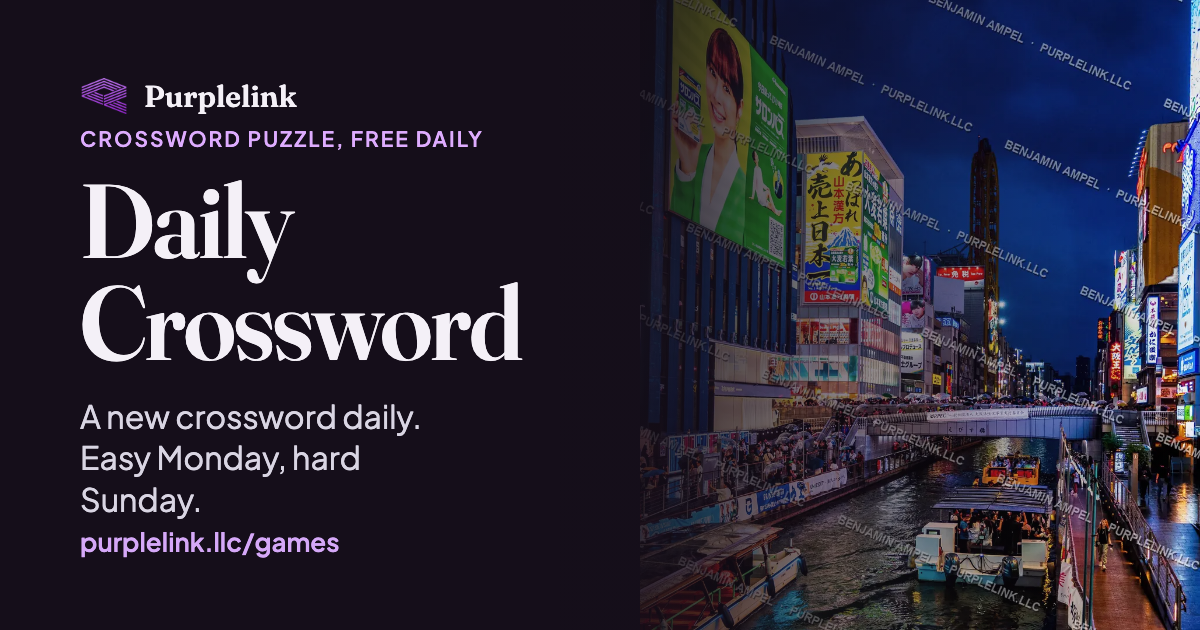
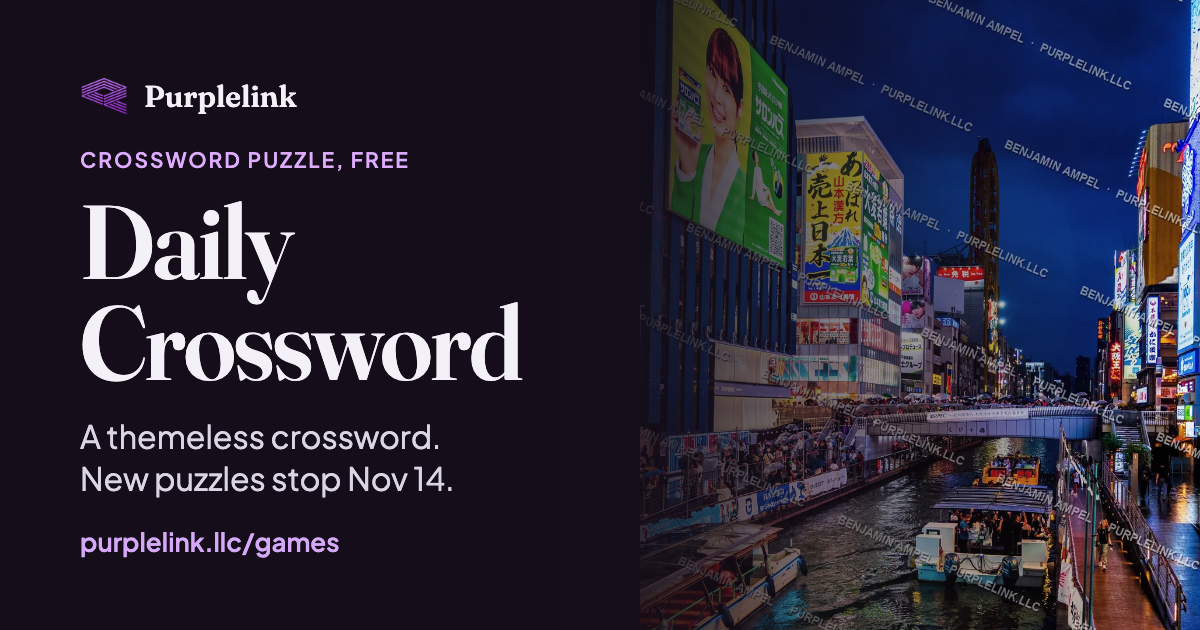
Games: say plainly that new crosswords stop after Nov 14, drop it from the daily run after that day

Changed region(s): [[0.0617, 0.2111, 0.4317, 0.6032], [0.0617, 0.6333, 0.37, 0.8143]]

diff --git a/site/games/index.html b/site/games/index.html
@@ -5,10 +5,10 @@
     <meta name="viewport" content="width=device-width, initial-scale=1">
     <meta name="robots" content="index, follow, max-image-preview:large">
     <title>Free daily games: Linkle, Quadlink, crossword and more</title>
-    <meta name="description" content="Free daily puzzles from Purplelink: a word game, a four-board word game, a crossword, a mountain guessing game and a sports teammate puzzle, plus unlimited chess puzzles. New every midnight.">
+    <meta name="description" content="Free daily puzzles from Purplelink: a word game, a four-board word game, a mountain guessing game and a sports teammate puzzle, new every midnight, plus a crossword and unlimited chess puzzles.">
     <link rel="canonical" href="https://purplelink.llc/games/">
     <meta property="og:title" content="Free daily games: Linkle, Quadlink, crossword and more">
-    <meta property="og:description" content="Free daily puzzles from Purplelink: a word game, a four-board word game, a crossword, a mountain guessing game and a sports teammate puzzle, plus unlimited chess puzzles. New every midnight.">
+    <meta property="og:description" content="Free daily puzzles from Purplelink: a word game, a four-board word game, a mountain guessing game and a sports teammate puzzle, new every midnight, plus a crossword and unlimited chess puzzles.">
     <meta property="og:type" content="website">
     <meta property="og:url" content="https://purplelink.llc/games/">
     <meta property="og:site_name" content="Purplelink">
@@ -19,7 +19,7 @@
     <meta property="og:image:alt" content="Purplelink&#x27;s free daily games">
     <meta name="twitter:card" content="summary_large_image">
     <meta name="twitter:title" content="Free daily games: Linkle, Quadlink, crossword and more">
-    <meta name="twitter:description" content="Free daily puzzles from Purplelink: a word game, a four-board word game, a crossword, a mountain guessing game and a sports teammate puzzle, plus unlimited chess puzzles. New every midnight.">
+    <meta name="twitter:description" content="Free daily puzzles from Purplelink: a word game, a four-board word game, a mountain guessing game and a sports teammate puzzle, new every midnight, plus a crossword and unlimited chess puzzles.">
     <meta name="twitter:image" content="https://purplelink.llc/assets/og/games-hub.png">
     <meta name="twitter:image:alt" content="Purplelink&#x27;s free daily games">
     <script type="application/ld+json">
@@ -30,7 +30,7 @@
           "@type": "CollectionPage",
           "name": "Daily games",
           "url": "https://purplelink.llc/games/",
-          "description": "Purplelink's daily games are a set of free puzzles that change every day at midnight: Linkle, Quadlink, a themeless crossword, Peaklink (guess the mountain) and Lockerlink (link two athletes from the NBA, NFL, MLB or NHL through their teammates). You can play without an account. The daily games have no third-party ads. Chess Puzzles adds unlimited rated puzzles and leaderboards, and shows Google ads.",
+          "description": "Purplelink's daily games are a set of free puzzles that change every day at midnight: Linkle, Quadlink, Peaklink (guess the mountain) and Lockerlink (link two athletes from the NBA, NFL, MLB or NHL through their teammates). There is also a themeless crossword; new crosswords stop after November 14, 2026, and the last one stays to play again. You can play without an account. The daily games have no third-party ads. Chess Puzzles adds unlimited rated puzzles and leaderboards, and shows Google ads.",
           "speakable": {
             "@type": "SpeakableSpecification",
             "cssSelector": [
@@ -194,7 +194,7 @@
             <button type="button" class="dock-btn" data-fx-sound aria-pressed="true" aria-label="Sound on. Turn sound off"><svg class="gl" aria-hidden="true" focusable="false"><use href="/games/glyphs.svg#sound-on"/></svg><span class="fx-label visually-hidden">Sound on</span></button>
           </div>
         </header>
-        <p class="game-lede">Purplelink&#x27;s daily games are a set of free puzzles that change every day at midnight: Linkle, Quadlink, a themeless crossword, Peaklink (guess the mountain) and Lockerlink (link two athletes from the NBA, NFL, MLB or NHL through their teammates). You can play without an account. The daily games have no third-party ads. Chess Puzzles adds unlimited rated puzzles and leaderboards, and shows Google ads.</p>
+        <p class="game-lede">Purplelink&#x27;s daily games are a set of free puzzles that change every day at midnight: Linkle, Quadlink, Peaklink (guess the mountain) and Lockerlink (link two athletes from the NBA, NFL, MLB or NHL through their teammates). There is also a themeless crossword; new crosswords stop after November 14, 2026, and the last one stays to play again. You can play without an account. The daily games have no third-party ads. Chess Puzzles adds unlimited rated puzzles and leaderboards, and shows Google ads.</p>
         <section class="run" aria-labelledby="run-h">
           <div class="run-ring" id="run-ring">
             <svg viewBox="0 0 168 168" aria-hidden="true" focusable="false" id="run-svg"></svg>
@@ -230,7 +230,7 @@
           </a>
           <a class="tile" data-game="crossword" data-g="crossword" href="/games/crossword/">
             <span class="tile-art"><svg class="art" viewBox="0 0 200 140" preserveAspectRatio="xMidYMid slice" aria-hidden="true" focusable="false"><rect class="a2" x="16.0" y="22.0" width="24" height="19.5" rx="3"/><rect class="a2" x="41.5" y="22.0" width="24" height="19.5" rx="3"/><rect class="a2" x="67.0" y="22.0" width="24" height="19.5" rx="3"/><rect class="a1" x="92.5" y="22.0" width="24" height="19.5" rx="3"/><rect class="a2" x="118.0" y="22.0" width="24" height="19.5" rx="3"/><rect class="a2" x="143.5" y="22.0" width="24" height="19.5" rx="3"/><rect class="a2" x="169.0" y="22.0" width="24" height="19.5" rx="3"/><rect class="a2" x="16.0" y="42.5" width="24" height="19.5" rx="3"/><rect class="a1" x="41.5" y="42.5" width="24" height="19.5" rx="3"/><rect class="a1" x="67.0" y="42.5" width="24" height="19.5" rx="3"/><rect class="a2" x="92.5" y="42.5" width="24" height="19.5" rx="3"/><rect class="a1" x="118.0" y="42.5" width="24" height="19.5" rx="3"/><rect class="a2" x="143.5" y="42.5" width="24" height="19.5" rx="3"/><rect class="a2" x="169.0" y="42.5" width="24" height="19.5" rx="3"/><rect class="a1" x="16.0" y="63.0" width="24" height="19.5" rx="3"/><rect class="a2" x="41.5" y="63.0" width="24" height="19.5" rx="3"/><rect class="a2" x="67.0" y="63.0" width="24" height="19.5" rx="3"/><rect class="a2" x="92.5" y="63.0" width="24" height="19.5" rx="3"/><rect class="a2" x="118.0" y="63.0" width="24" height="19.5" rx="3"/><rect class="a1" x="143.5" y="63.0" width="24" height="19.5" rx="3"/><rect class="a1" x="169.0" y="63.0" width="24" height="19.5" rx="3"/><rect class="a2" x="16.0" y="83.5" width="24" height="19.5" rx="3"/><rect class="a2" x="41.5" y="83.5" width="24" height="19.5" rx="3"/><rect class="a1" x="67.0" y="83.5" width="24" height="19.5" rx="3"/><rect class="a2" x="92.5" y="83.5" width="24" height="19.5" rx="3"/><rect class="a2" x="118.0" y="83.5" width="24" height="19.5" rx="3"/><rect class="a2" x="143.5" y="83.5" width="24" height="19.5" rx="3"/><rect class="a2" x="169.0" y="83.5" width="24" height="19.5" rx="3"/><rect class="a2" x="16.0" y="104.0" width="24" height="19.5" rx="3"/><rect class="a2" x="41.5" y="104.0" width="24" height="19.5" rx="3"/><rect class="a2" x="67.0" y="104.0" width="24" height="19.5" rx="3"/><rect class="a2" x="92.5" y="104.0" width="24" height="19.5" rx="3"/><rect class="a1" x="118.0" y="104.0" width="24" height="19.5" rx="3"/><rect class="a2" x="143.5" y="104.0" width="24" height="19.5" rx="3"/><rect class="a1" x="169.0" y="104.0" width="24" height="19.5" rx="3"/><text class="a4" x="18.0" y="31.0" font-size="7">1</text><text class="a4" x="94.5" y="51.5" font-size="7">3</text><text class="a4" x="43.5" y="72.0" font-size="7">4</text><text class="a4" x="94.5" y="92.5" font-size="7">5</text><text class="a4" x="18.0" y="113.0" font-size="7">6</text><g class="mv"><rect class="a5" x="41.5" y="22" width="22" height="19" rx="3" opacity=".9"/><text class="a4" x="52.5" y="37" font-size="14" text-anchor="middle">A</text></g></svg><span class="tile-badge"><svg class="gl gl-sm" aria-hidden="true" focusable="false"><use href="/games/glyphs.svg#bolt"/></svg>Spotlight</span><span class="tile-check" aria-hidden="true"><svg class="gl" aria-hidden="true" focusable="false"><use href="/games/glyphs.svg#check"/></svg></span></span>
-            <span class="tile-body"><h2>Daily Crossword</h2><p>A themeless crossword, easy Monday to hard Sunday.</p>
+            <span class="tile-body"><h2>Daily Crossword</h2><p>A themeless crossword. New puzzles stop after November 14.</p>
               <span class="tile-foot"><span class="tile-status" data-status>About 10 minutes</span><span class="tile-go" data-go>Play</span></span></span>
           </a>
           <a class="tile" data-game="peaklink" data-g="peaklink" href="/games/peaklink/">
@@ -288,14 +288,14 @@
             <tbody>
               <tr><th scope="row"><a href="/games/linkle/">Linkle</a></th><td>Linkle is a free daily word game.</td><td>About 3 min</td></tr>
               <tr><th scope="row"><a href="/games/quadlink/">Quadlink</a></th><td>Quadlink is a free daily word game where you solve four hidden five-letter words at once in nine guesses.</td><td>About 5 min</td></tr>
-              <tr><th scope="row"><a href="/games/crossword/">Daily Crossword</a></th><td>Daily Crossword is a free daily themeless crossword puzzle.</td><td>About 10 min</td></tr>
+              <tr><th scope="row"><a href="/games/crossword/">Daily Crossword</a></th><td>Daily Crossword is a free themeless crossword puzzle. New puzzles stop after November 14, 2026.</td><td>About 10 min</td></tr>
               <tr><th scope="row"><a href="/games/chess-puzzles/">Chess Puzzles</a></th><td>Chess Puzzles is a free, unlimited chess tactics trainer.</td><td>About 2 min</td></tr>
               <tr><th scope="row"><a href="/games/leaderboard/">Leaderboards</a></th><td>The Purplelink leaderboards rank every daily game by wins, best streak and average percentile, and list the highest ratings in Chess Puzzles and Lockerlink.</td><td>About 1 min</td></tr>
               <tr><th scope="row"><a href="/games/peaklink/">Peaklink</a></th><td>Peaklink is a free daily geography game about mountains.</td><td>About 3 min</td></tr>
               <tr><th scope="row"><a href="/games/lockerlink/">Lockerlink</a></th><td>Lockerlink is a free daily sports puzzle.</td><td>About 4 min</td></tr>
             </tbody>
           </table>
-          <p>Every puzzle changes at midnight in your own time zone, so everyone sees the same puzzle on the same calendar date. Difficulty rises through the week in Linkle and the crossword.</p>
+          <p>Every puzzle changes at midnight in your own time zone, so everyone sees the same puzzle on the same calendar date. Difficulty rises through the week in Linkle.</p>
           <h2>Questions</h2>
           <h3>Are the games free?</h3>
           <p>Yes. You can play every game without signing in. The daily games have no third-party ads, only an occasional small notice about one of our own apps. The unlimited Chess Puzzles page shows Google ads. An optional email-link sign-in keeps your streaks, achievements and puzzle ratings across devices.</p>

diff --git a/site/games/crossword/index.html b/site/games/crossword/index.html
@@ -5,10 +5,10 @@
     <meta name="viewport" content="width=device-width, initial-scale=1">
     <meta name="robots" content="index, follow, max-image-preview:large">
     <title>Daily Crossword: a free themeless puzzle, easy Monday to hard Sunday</title>
-    <meta name="description" content="A new free crossword every day, easiest on Monday and hardest on Sunday, with letter, word and puzzle checking. No account needed and no third-party ads.">
+    <meta name="description" content="A free themeless crossword, easiest on Monday and hardest on Sunday, with letter, word and puzzle checking. New crosswords stop after November 14, 2026, and the last one stays here to play again. No account needed.">
     <link rel="canonical" href="https://purplelink.llc/games/crossword/">
     <meta property="og:title" content="Daily Crossword: a free themeless puzzle, easy Monday to hard Sunday">
-    <meta property="og:description" content="A new free crossword every day, easiest on Monday and hardest on Sunday, with letter, word and puzzle checking. No account needed and no third-party ads.">
+    <meta property="og:description" content="A free themeless crossword, easiest on Monday and hardest on Sunday, with letter, word and puzzle checking. New crosswords stop after November 14, 2026, and the last one stays here to play again. No account needed.">
     <meta property="og:type" content="website">
     <meta property="og:url" content="https://purplelink.llc/games/crossword/">
     <meta property="og:site_name" content="Purplelink">
@@ -19,7 +19,7 @@
     <meta property="og:image:alt" content="Daily Crossword, a free daily puzzle from Purplelink">
     <meta name="twitter:card" content="summary_large_image">
     <meta name="twitter:title" content="Daily Crossword: a free themeless puzzle, easy Monday to hard Sunday">
-    <meta name="twitter:description" content="A new free crossword every day, easiest on Monday and hardest on Sunday, with letter, word and puzzle checking. No account needed and no third-party ads.">
+    <meta name="twitter:description" content="A free themeless crossword, easiest on Monday and hardest on Sunday, with letter, word and puzzle checking. New crosswords stop after November 14, 2026, and the last one stays here to play again. No account needed.">
     <meta name="twitter:image" content="https://purplelink.llc/assets/og/games-crossword.png">
     <meta name="twitter:image:alt" content="Daily Crossword, a free daily puzzle from Purplelink">
     <script type="application/ld+json">
@@ -41,7 +41,7 @@
           "@id": "https://purplelink.llc/games/crossword/#webpage",
           "url": "https://purplelink.llc/games/crossword/",
           "name": "Daily Crossword: a free themeless puzzle, easy Monday to hard Sunday",
-          "description": "A new free crossword every day, easiest on Monday and hardest on Sunday, with letter, word and puzzle checking. No account needed and no third-party ads.",
+          "description": "A free themeless crossword, easiest on Monday and hardest on Sunday, with letter, word and puzzle checking. New crosswords stop after November 14, 2026, and the last one stays here to play again. No account needed.",
           "inLanguage": "en",
           "isPartOf": {
             "@type": "WebSite",
@@ -79,7 +79,7 @@
           "@id": "https://purplelink.llc/games/crossword/#app",
           "name": "Daily Crossword",
           "url": "https://purplelink.llc/games/crossword/",
-          "description": "Daily Crossword is a free daily themeless crossword puzzle. The grid grows and the clues get trickier from Monday to Sunday. You can check one letter, one word or the whole puzzle, or turn on auto-check.",
+          "description": "Daily Crossword is a free themeless crossword puzzle. New crosswords stop after November 14, 2026; after that the last puzzle stays here to play again. You can check one letter, one word or the whole puzzle, or turn on auto-check.",
           "applicationCategory": "GameApplication",
           "applicationSubCategory": "Crossword puzzle",
           "genre": "Crossword puzzle",
@@ -153,10 +153,10 @@
             },
             {
               "@type": "Question",
-              "name": "Is there a new crossword every day?",
+              "name": "Are there still new crosswords?",
               "acceptedAnswer": {
                 "@type": "Answer",
-                "text": "Yes. A new themeless puzzle is ready at midnight your time. Monday is the easiest and Sunday the hardest, with bigger grids and trickier clues as the week goes on."
+                "text": "Not for now. New crosswords are paused, and the last new one is for Saturday, November 14, 2026. After that the page shows that puzzle to play again; replays do not count toward stats, streaks or the leaderboard."
               }
             },
             {
@@ -272,8 +272,8 @@
           <h1>Daily Crossword</h1>
           <span class="game-num" id="cw-number"></span>
         </div>
-        <p class="game-lede">Daily Crossword is a free daily themeless crossword puzzle. The grid grows and the clues get trickier from Monday to Sunday. You can check one letter, one word or the whole puzzle, or turn on auto-check.</p>
-        <p id="cw-loading" class="games-note">Loading today's crossword.</p>
+        <p class="game-lede">Daily Crossword is a free themeless crossword puzzle. New crosswords stop after November 14, 2026; after that the last puzzle stays here to play again. You can check one letter, one word or the whole puzzle, or turn on auto-check.</p>
+        <p id="cw-loading" class="games-note">Loading the crossword.</p>
         <p id="cw-missing" class="games-note" hidden>Today's crossword is not ready yet. Please check back soon.</p>
         <p id="cw-paused" class="games-note" hidden>New crosswords are paused. Here is the most recent one to play again; it does not count toward your stats.</p>
         <div id="cw-game" hidden>
@@ -343,8 +343,8 @@
         <h2>Questions</h2>
         <h3>What does Pencil do?</h3>
         <p>Pencil mode marks the letters you type as tentative: they show lighter until you tap Ink all. They count exactly like any other letter when you check or finish.</p>
-        <h3>Is there a new crossword every day?</h3>
-        <p>Yes. A new themeless puzzle is ready at midnight your time. Monday is the easiest and Sunday the hardest, with bigger grids and trickier clues as the week goes on.</p>
+        <h3>Are there still new crosswords?</h3>
+        <p>Not for now. New crosswords are paused, and the last new one is for Saturday, November 14, 2026. After that the page shows that puzzle to play again; replays do not count toward stats, streaks or the leaderboard.</p>
         <h3>How is the crossword made?</h3>
         <p>The grids are built by a program that fills a symmetric pattern from a word list, and the clues are written for each puzzle. The size of the grid, how rare the words are and how the clues are phrased all grow from Monday to Sunday.</p>
         <h3>What do Check and Reveal do?</h3>

diff --git a/site/games/achievements.js b/site/games/achievements.js
@@ -12,6 +12,9 @@
   // history still counts. RUN is today's daily lineup.
   var PLAYED = ["linkle", "quadlink", "crossword", "peaklink", "lockerlink", "daily-five", "daily-photo", "daily-chess", "sudoku"];
   var RUN = ["linkle", "quadlink", "crossword", "peaklink", "lockerlink"];
+  // New crosswords stopped with the 2026-11-14 puzzle; after that day the daily set is the other four games.
+  var CW_LAST = G.dayIndex(new Date("2026-11-14T12:00:00"), EPOCH);
+  function runFor(idx) { return idx > CW_LAST ? RUN.filter(function (g) { return g !== "crossword"; }) : RUN; }
   function best(all) { return PLAYED.reduce(function (n, g) { return Math.max(n, stats(all, g).max || 0); }, 0); }
   function played(all) { return PLAYED.reduce(function (n, g) { return n + (stats(all, g).played || 0); }, 0); }
   function dowOf(idx) { return (EPOCH_DOW + idx) % 7; }
@@ -38,10 +41,12 @@
     { id: "sudoku-first", retired: true, name: "Digits in place", desc: "Solve your first daily Sudoku.", test: function (a) { return stats(a, "sudoku").won >= 1; } },
     { id: "sudoku-hard", retired: true, name: "No pencil needed", desc: "Solve a Hard or Expert Sudoku with no help.", test: function (a, c) { return c.game === "sudoku" && c.clean && (c.level === "Hard" || c.level === "Expert"); } },
     { id: "sudoku-clean-5", retired: true, name: "Sharp eyes", desc: "Solve five Sudokus with no help.", test: function (a) { return ((a.sudoku && a.sudoku.clean) || 0) >= 5; } },
-    { id: "cw-first", name: "First crossword", desc: "Solve your first daily crossword.", test: function (a) { return stats(a, "crossword").won >= 1; } },
-    { id: "cw-monday", name: "Quick Monday", desc: "Solve a Monday crossword with no help in under four minutes.", test: function (a, c) { return c.game === "crossword" && c.clean && c.weekdayName === "Monday" && c.seconds < 240; } },
-    { id: "cw-sunday", name: "Sunday finisher", desc: "Solve a Sunday crossword with no help.", test: function (a, c) { return c.game === "crossword" && c.clean && c.weekdayName === "Sunday"; } },
-    { id: "cw-clean-5", name: "Unaided", desc: "Solve five crosswords with no help.", test: function (a) { return ((a.crossword && a.crossword.clean) || 0) >= 5; } },
+    // The crossword achievements are retired with the freeze: a replay of the last puzzle does not count, so they
+    // can only be earned through 2026-11-14 and show only to players who earned them.
+    { id: "cw-first", retired: true, name: "First crossword", desc: "Solve your first daily crossword.", test: function (a) { return stats(a, "crossword").won >= 1; } },
+    { id: "cw-monday", retired: true, name: "Quick Monday", desc: "Solve a Monday crossword with no help in under four minutes.", test: function (a, c) { return c.game === "crossword" && c.clean && c.weekdayName === "Monday" && c.seconds < 240; } },
+    { id: "cw-sunday", retired: true, name: "Sunday finisher", desc: "Solve a Sunday crossword with no help.", test: function (a, c) { return c.game === "crossword" && c.clean && c.weekdayName === "Sunday"; } },
+    { id: "cw-clean-5", retired: true, name: "Unaided", desc: "Solve five crosswords with no help.", test: function (a) { return ((a.crossword && a.crossword.clean) || 0) >= 5; } },
     { id: "rush-10", name: "Rush ten", desc: "Solve ten puzzles in one Rush run.", test: function (a, c) { return c.game === "chess-puzzles" && c.rush >= 10; } },
     { id: "rush-20", name: "Rush twenty", desc: "Solve twenty puzzles in one Rush run.", test: function (a, c) { return c.game === "chess-puzzles" && c.rush >= 20; } },
     { id: "rated-first", name: "Rated", desc: "Finish your first rated chess puzzle.", test: function (a, c) { return c.game === "chess-puzzles" && c.n >= 1; } },
@@ -57,10 +62,10 @@
     { id: "streak-3", name: "On a roll", desc: "Keep a three-day streak in any game.", test: function (a) { return best(a) >= 3; } },
     { id: "streak-7", name: "Week streak", desc: "Keep a seven-day streak in any game.", test: function (a) { return best(a) >= 7; } },
     { id: "streak-30", name: "Month streak", desc: "Keep a thirty-day streak in any game.", test: function (a) { return best(a) >= 30; } },
-    { id: "full-set", name: "Full set", desc: "Finish Linkle, Quadlink, Peaklink and the crossword on the same day.", test: function (a, c) {
-      return ["linkle", "quadlink", "peaklink", "crossword"].every(function (g) { var t = a[g] && a[g].today; return t && t.done && t.idx === c.idx; }); } },
+    { id: "full-set", name: "Full set", desc: "Finish Linkle, Quadlink and Peaklink on the same day.", test: function (a, c) {
+      return ["linkle", "quadlink", "peaklink"].every(function (g) { var t = a[g] && a[g].today; return t && t.done && t.idx === c.idx; }); } },
     { id: "daily-set", name: "Daily set", desc: "Finish every daily puzzle on the same day.", test: function (a, c) {
-      return RUN.every(function (g) { var t = a[g] && a[g].today; return t && t.done && t.idx === c.idx; }); } },
+      return runFor(c.idx).every(function (g) { var t = a[g] && a[g].today; return t && t.done && t.idx === c.idx; }); } },
     { id: "close-call", name: "Close call", desc: "Let the weekly streak saver rescue a streak.", test: function (a) {
       return PLAYED.some(function (g) { return (stats(a, g).freezes || []).length > 0; }); } },
     { id: "level-5", name: "Level 5", desc: "Reach level 5.", test: function (a) { return G.xpOf(a).level >= 5; } },

diff --git a/site/games/goals.js b/site/games/goals.js
@@ -7,25 +7,31 @@
   if (!G) return;
   var EPOCH = "2026-10-04", EPOCH_DOW = 0;
 
+  function todayIdx() { return G.dayIndex(new Date(), EPOCH); }
+
   // Display order. `min` is a rough playing time; `kind` groups games for quests.
-  var GAMES = [
+  var ALL = [
     { id: "linkle", name: "Linkle", path: "/games/linkle/", min: 3, kind: "word" },
     { id: "quadlink", name: "Quadlink", path: "/games/quadlink/", min: 5, kind: "word" },
     { id: "crossword", name: "Daily Crossword", path: "/games/crossword/", min: 10, kind: "word" },
     { id: "peaklink", name: "Peaklink", path: "/games/peaklink/", min: 3, kind: "guess" },
     { id: "lockerlink", name: "Lockerlink", path: "/games/lockerlink/", min: 4, kind: "sports" }
   ];
+  // New crosswords stopped with the 2026-11-14 puzzle (games freeze, 2026-11-12). Through that day the crossword is
+  // part of the daily run; from the next day the run is the other four games and the crossword page only replays.
+  var CW_LAST = G.dayIndex(new Date("2026-11-14T12:00:00"), EPOCH);
+  var CW_RUN = todayIdx() <= CW_LAST;
+  var GAMES = CW_RUN ? ALL : ALL.filter(function (g) { return g.id !== "crossword"; });
+  var NUM = ["zero", "one", "two", "three", "four", "five"];
   // Daily puzzles outside the run (none since the 2026-11-12 games freeze; kept so callers can still read it).
   var MORE = [];
-  var BY = {}; GAMES.concat(MORE).forEach(function (g) { BY[g.id] = g; });
-  var QUICK_FIRST = ["linkle", "peaklink", "lockerlink", "quadlink", "crossword"];
+  var BY = {}; ALL.concat(MORE).forEach(function (g) { BY[g.id] = g; });
+  var QUICK_FIRST = ["linkle", "peaklink", "lockerlink", "quadlink", "crossword"].filter(function (id) { return GAMES.some(function (g) { return g.id === id; }); });
   var TIERS = [
     { n: 2, name: "Warm-up", xp: 20 },
     { n: 3, name: "Steady", xp: 20 },     // 40 in total
-    { n: 5, name: "Full run", xp: 60 }    // 100 in total
+    { n: GAMES.length, name: "Full run", xp: 60 }    // 100 in total
   ];
-
-  function todayIdx() { return G.dayIndex(new Date(), EPOCH); }
 
   function isDone(all, id, idx) {
     var s = all[id] || {};
@@ -48,7 +54,7 @@
   // Quest pool. f(S) -> [have, need]. "count" quests are limited to one per day.
   var QUESTS = {
     three: { text: "Finish any three games", count: true, f: function (S) { return [S.count, 3]; } },
-    five: { text: "Finish all five games", count: true, f: function (S) { return [S.count, 5]; } },
+    five: { text: "Finish all " + NUM[GAMES.length] + " games", count: true, f: function (S) { return [S.count, GAMES.length]; } },
     mix: { text: "Finish one word game and one of Peaklink or Lockerlink", f: function (S) { return [(anyOf(S, kindIds("word")) ? 1 : 0) + (anyOf(S, ["peaklink", "lockerlink"]) ? 1 : 0), 2]; } },
     pair: { text: "Finish Linkle and Quadlink", f: function (S) { return [countOf(S, ["linkle", "quadlink"]), 2]; } },
     guess: { text: "Finish Peaklink and Lockerlink", f: function (S) { return [countOf(S, ["peaklink", "lockerlink"]), 2]; } },
@@ -56,7 +62,8 @@
     fresh: { text: "Finish a game you have played fewer than five times", f: function (S) {
       return [GAMES.some(function (g) { return S.done[g.id] && S.played[g.id] < 5; }) ? 1 : 0, 1]; } }
   };
-  var QUEST_IDS = Object.keys(QUESTS);
+  // The crossword quest leaves the pool once the crossword leaves the run.
+  var QUEST_IDS = Object.keys(QUESTS).filter(function (id) { return id !== "long" || CW_RUN; });
 
   function rng(seed) {   // mulberry32
     var a = (seed * 2654435761 + 12345) >>> 0;
@@ -83,7 +90,7 @@
     var g = all.goals && typeof all.goals === "object" ? all.goals : {};
     return { d: g.d || {}, w: g.w || {}, banked: g.banked || 0 };
   }
-  function tierFor(count) { return count >= 5 ? 3 : count >= 3 ? 2 : count >= 2 ? 1 : 0; }
+  function tierFor(count) { return count >= TIERS[2].n ? 3 : count >= 3 ? 2 : count >= 2 ? 1 : 0; }
 
   // Monday-to-Sunday stamps for the week containing `idx`: a day is stamped once two puzzles were finished.
   function weekStamps(g, idx) {
@@ -200,5 +207,5 @@
     document.dispatchEvent(new CustomEvent("pl-reward", { detail: info }));
   }
 
-  window.PLGoals = { GAMES: GAMES, MORE: MORE, BY: BY, TIERS: TIERS, QUESTS: QUESTS, todayIdx: todayIdx, refresh: refresh, summary: summary, afterResult: afterResult, nextFor: nextFor, spotFor: spotFor, isDone: isDone, questsFor: questsFor };
+  window.PLGoals = { GAMES: GAMES, CW_LAST: CW_LAST, MORE: MORE, BY: BY, TIERS: TIERS, QUESTS: QUESTS, todayIdx: todayIdx, refresh: refresh, summary: summary, afterResult: afterResult, nextFor: nextFor, spotFor: spotFor, isDone: isDone, questsFor: questsFor };
 })();

diff --git a/site/games/hub.js b/site/games/hub.js
@@ -116,7 +116,7 @@
 
   function paintReach() {
     var ul = $("reach"), A = window.PLAch; if (!ul || !A) return;
-    var have = A.unlocked() || {}, locked = A.defs.filter(function (d) { return have[d.id] === undefined; });
+    var have = A.unlocked() || {}, locked = A.defs.filter(function (d) { return have[d.id] === undefined && !d.retired; });
     var n = P.todayIdx(), picks = [];
     for (var k = 0; k < locked.length && picks.length < 3; k++) picks.push(locked[(n * 7 + k * 5) % locked.length]);
     var seen = {}; picks = picks.filter(function (d) { return !seen[d.id] && (seen[d.id] = 1); });
@@ -127,17 +127,21 @@
       ul.appendChild(li);
     });
     var line = $("hub-ach");
-    if (line) line.textContent = Object.keys(have).length + " of " + A.defs.length + " achievements unlocked. ";
+    if (line) line.textContent = Object.keys(have).length + " of " + A.defs.filter(function (d) { return !d.retired || have[d.id] !== undefined; }).length + " achievements unlocked. ";
   }
 
   function paint(first) {
     var all = G.all(), sum = P.summary();
     drawRing(sum);
+    // The run has five games through 2026-11-14 and four after it (the crossword stops); the markup says five.
+    var tot = document.querySelector(".run-count small"); if (tot) tot.textContent = "/" + sum.total;
+    var full = document.querySelector(".run-tier:last-of-type");
+    if (full) { full.setAttribute("data-n", String(sum.total)); var fs = full.querySelector("span"); if (fs) fs.textContent = "All " + sum.total + ", +60 XP"; }
     var n = $("run-n"); if (n) { if (first && FX) { n.textContent = "0"; FX.count(n, sum.count, 900); } else n.textContent = String(sum.count); }
     var line = $("run-line");
     if (line) {
       if (sum.count === sum.total) line.textContent = "A full run. New puzzles arrive at midnight.";
-      else if (sum.toNextTier) line.textContent = sum.count === 0 ? "Finish two puzzles for a Warm-up, three for Steady, all five for a Full run." : sum.toNextTier.need + " more for " + sum.toNextTier.name + " (+" + sum.toNextTier.xp + " XP).";
+      else if (sum.toNextTier) line.textContent = sum.count === 0 ? "Finish two puzzles for a Warm-up, three for Steady, all " + (sum.total === 4 ? "four" : "five") + " for a Full run." : sum.toNextTier.need + " more for " + sum.toNextTier.name + " (+" + sum.toNextTier.xp + " XP).";
     }
     Array.prototype.forEach.call(document.querySelectorAll(".run-tier"), function (li) { li.toggleAttribute("data-got", sum.count >= Number(li.getAttribute("data-n"))); });
     var btn = $("hub-next");

diff --git a/site/games/linkle/index.html b/site/games/linkle/index.html
@@ -369,7 +369,7 @@
           <h2>More daily games</h2>
           <ul class="games-related">
           <li><a href="/games/quadlink/"><strong>Quadlink</strong></a>: Quadlink is a free daily word game where you solve four hidden five-letter words at once in nine guesses.</li>
-          <li><a href="/games/crossword/"><strong>Daily Crossword</strong></a>: Daily Crossword is a free daily themeless crossword puzzle.</li>
+          <li><a href="/games/crossword/"><strong>Daily Crossword</strong></a>: Daily Crossword is a free themeless crossword puzzle.</li>
           </ul>
         </div>
         <p class="games-note"><a href="/games/">All daily games</a></p>

diff --git a/site/games/account.js b/site/games/account.js
@@ -84,7 +84,7 @@
         var bits = [];
         if (res.body.chess) bits.push("Chess Puzzles " + res.body.chess.r + " (" + res.body.chess.n + " played)");
         if (res.body.sudoku) bits.push("Sudoku Unlimited " + res.body.sudoku.r + " (" + res.body.sudoku.n + " played)");
-        $("ac-ratings").textContent = bits.length ? "Your ratings: " + bits.join(", ") + "." : "You have no puzzle ratings yet. Try Chess Puzzles or Sudoku Unlimited.";
+        $("ac-ratings").textContent = bits.length ? "Your ratings: " + bits.join(", ") + "." : "You have no puzzle ratings yet. Try Chess Puzzles.";
       }, function () {});
     }
   }

diff --git a/scripts/gen_games_pages.py b/scripts/gen_games_pages.py
@@ -155,7 +155,7 @@ BYSLUG = {m["slug"]: m for m in META.values()}
 TAGLINE = {
     "linkle": "Five letters, six tries, and a new twist every weekday.",
     "quadlink": "Four hidden words at once, with a new twist every weekday.",
-    "crossword": "A themeless crossword, easy Monday to hard Sunday.",
+    "crossword": "A themeless crossword. New puzzles stop after November 14.",
     "peaklink": "Guess the mountain from height, place and volcano clues.",
     "lockerlink": "Link two players from any era through real teammates.",
     "chess-puzzles": "Unlimited rated tactics, plus a three-minute Rush mode.",
@@ -371,7 +371,7 @@ page("games/quadlink/",
 # ---------------- Crossword ----------------
 CW_FAQ = [
     ('What does Pencil do?', 'Pencil mode marks the letters you type as tentative: they show lighter until you tap Ink all. They count exactly like any other letter when you check or finish.'),
-    ("Is there a new crossword every day?", "Yes. A new themeless puzzle is ready at midnight your time. Monday is the easiest and Sunday the hardest, with bigger grids and trickier clues as the week goes on."),
+    ("Are there still new crosswords?", "Not for now. New crosswords are paused, and the last new one is for Saturday, November 14, 2026. After that the page shows that puzzle to play again; replays do not count toward stats, streaks or the leaderboard."),
     ("How is the crossword made?", "The grids are built by a program that fills a symmetric pattern from a word list, and the clues are written for each puzzle. The size of the grid, how rare the words are and how the clues are phrased all grow from Monday to Sunday."),
     ("What do Check and Reveal do?", "You can check one letter, one word or the whole puzzle, and wrong letters turn red. Auto-check marks a wrong letter as soon as you type it. Reveal fills in a letter, a word or the whole puzzle. Using any of them is shown as solving with help, and only unaided solves count toward your best time."),
     ("Where are my times and streak stored?", "Saved in your browser on this device. If you sign in with an email link, your streaks and achievements also follow you to other devices; without signing in, clearing site data or switching devices starts fresh."),
@@ -391,9 +391,10 @@ CW_BODY = """      <div class="games-wrap">
           <h1>Daily Crossword</h1>
           <span class="game-num" id="cw-number"></span>
         </div>
-        <p class="game-lede">A new themeless crossword every day. Easiest on Monday, hardest on Sunday.</p>
-        <p id="cw-loading" class="games-note">Loading today's crossword.</p>
+        <p class="game-lede">A themeless crossword, easiest on Monday and hardest on Sunday. New crosswords stop after November 14, 2026.</p>
+        <p id="cw-loading" class="games-note">Loading the crossword.</p>
         <p id="cw-missing" class="games-note" hidden>Today's crossword is not ready yet. Please check back soon.</p>
+        <p id="cw-paused" class="games-note" hidden>New crosswords are paused. Here is the most recent one to play again; it does not count toward your stats.</p>
         <div id="cw-game" hidden>
           <div class="cw-layout">
             <div class="cw-main">
@@ -436,7 +437,7 @@ CW_BODY = """      <div class="games-wrap">
                   <span class="game-note" id="cw-share-note"></span>
                 </div>
                 <textarea class="wg-share-text" id="cw-share-text" hidden readonly aria-label="Result text"></textarea>
-                <p class="game-next">Next crossword in <span id="cw-next-in"></span>.</p>
+                <p class="game-next" id="cw-next">Next crossword in <span id="cw-next-in"></span>.</p>
               </section>
             </div>
             <div class="cw-clues">
@@ -452,10 +453,10 @@ CW_BODY = """      <div class="games-wrap">
       </div>"""
 page("games/crossword/",
      "Daily Crossword: a free themeless puzzle, easy Monday to hard Sunday | Purplelink",
-     "A new free crossword every day, easiest on Monday and hardest on Sunday. No third-party ads, and you do not need an account.",
+     "A free themeless crossword, easiest on Monday and hardest on Sunday. New crosswords stop after November 14, 2026, and the last one stays here to play again. No account needed.",
      CW_BODY,
      {"@context": "https://schema.org", "@graph": [
-         game_app("Daily Crossword", "https://purplelink.llc/games/crossword/", "A free daily themeless crossword that gets harder from Monday to Sunday."),
+         game_app("Daily Crossword", "https://purplelink.llc/games/crossword/", "A free themeless crossword. New puzzles stop after November 14, 2026, and the last one stays here to play again."),
          faq(CW_FAQ),
          crumbs(("Home", "https://purplelink.llc/"), ("Games", "https://purplelink.llc/games/"), ("Daily Crossword", "https://purplelink.llc/games/crossword/"))]},
      ["/games/core.js", "/games/sync.js", "/games/achievements.js", "/games/confetti.js", "/games/crossword.js"])

diff --git a/scripts/games_meta.py b/scripts/games_meta.py
@@ -43,8 +43,8 @@ GAMES = {
     "games/crossword/": dict(
         slug="crossword", name="Daily Crossword", genre="Crossword puzzle", minutes=10,
         title="Daily Crossword: a free themeless puzzle, easy Monday to hard Sunday",
-        desc="A new free crossword every day, easiest on Monday and hardest on Sunday, with letter, word and puzzle checking. No account needed and no third-party ads.",
-        answer="Daily Crossword is a free daily themeless crossword puzzle. The grid grows and the clues get trickier from Monday to Sunday, and you can check one letter, one word or the whole puzzle, or turn on auto-check.",
+        desc="A free themeless crossword, easiest on Monday and hardest on Sunday, with letter, word and puzzle checking. New crosswords stop after November 14, 2026, and the last one stays here to play again. No account needed.",
+        answer="Daily Crossword is a free themeless crossword puzzle. New crosswords stop after November 14, 2026; after that the last puzzle stays here to play again. You can check one letter, one word or the whole puzzle, or turn on auto-check.",
         features=["Grids from 9 by 9 on Monday to 15 by 15 on Sunday", "Check a letter, a word or the puzzle, plus auto-check", "Reveal a letter, a word or the puzzle", "Best time per weekday for unaided solves"],
         steps=[("Select a clue or a square", "Click a square and type. Click it again, or press Space, to switch between across and down."),
                ("Fill in the answers", "Arrow keys move around the grid, Tab jumps to the next clue and Backspace deletes."),
@@ -117,7 +117,7 @@ GAMES = {
 
 HUB = dict(
     title="Free daily games: Linkle, Quadlink, crossword and more",
-    desc="Free daily puzzles from Purplelink: a word game, a four-board word game, a crossword, a mountain guessing game and a sports teammate puzzle, plus unlimited chess puzzles. New every midnight.",
-    answer="Purplelink's daily games are a set of free puzzles that change every day at midnight: Linkle, Quadlink, a themeless crossword, Peaklink (guess the mountain) and Lockerlink (link two athletes from the NBA, NFL, MLB or NHL through their teammates). You can play without an account. The daily games have no third-party ads. Chess Puzzles adds unlimited rated puzzles and leaderboards, and shows Google ads.",
+    desc="Free daily puzzles from Purplelink: a word game, a four-board word game, a mountain guessing game and a sports teammate puzzle, new every midnight, plus a crossword and unlimited chess puzzles.",
+    answer="Purplelink's daily games are a set of free puzzles that change every day at midnight: Linkle, Quadlink, Peaklink (guess the mountain) and Lockerlink (link two athletes from the NBA, NFL, MLB or NHL through their teammates). There is also a themeless crossword; new crosswords stop after November 14, 2026, and the last one stays to play again. You can play without an account. The daily games have no third-party ads. Chess Puzzles adds unlimited rated puzzles and leaderboards, and shows Google ads.",
     og_photo="dsc-3940",
 )

diff --git a/scripts/gen_games_og.py b/scripts/gen_games_og.py
@@ -27,7 +27,7 @@ h1 { font-family: 'Fraunces', serif; font-weight: 600; font-size: 104px; line-he
 .url { font-size: 26px; font-weight: 600; color: oklch(80% 0.12 310); }
 """
 TAG = {"linkle": "Five letters. Six tries. A new twist every weekday.", "quadlink": "Four words at once, in nine guesses.",
-       "crossword": "A new crossword daily. Easy Monday, hard Sunday.", "peaklink": "Guess the mountain.",
+       "crossword": "A themeless crossword. New puzzles stop Nov 14.", "peaklink": "Guess the mountain.",
        "lockerlink": "Link two players through teammates.", "chess-puzzles": "Unlimited puzzles. Climb the rating.", "leaderboard": "Top ratings in chess and Lockerlink."}
 
 def card(name, kind, tag, photo, site):
@@ -42,7 +42,7 @@ def card(name, kind, tag, photo, site):
 
 def main():
     site = SITE.as_uri()
-    jobs = [(m["slug"], m["name"], m["genre"] + ", free daily", TAG[m["slug"]], ("logo:" + m["slug"]) if m["slug"] == "lockerlink" else m["og_photo"]) for m in GAMES.values()]
+    jobs = [(m["slug"], m["name"], m["genre"] + (", free" if m["slug"] == "crossword" else ", free daily"), TAG[m["slug"]], ("logo:" + m["slug"]) if m["slug"] == "lockerlink" else m["og_photo"]) for m in GAMES.values()]
     jobs.append(("hub", "Daily games", "Free, every midnight", "Word games, a crossword, chess and more.", HUB["og_photo"]))
     tmp = Path(tempfile.mkdtemp()) / "card.html"
     with sync_playwright() as p:
